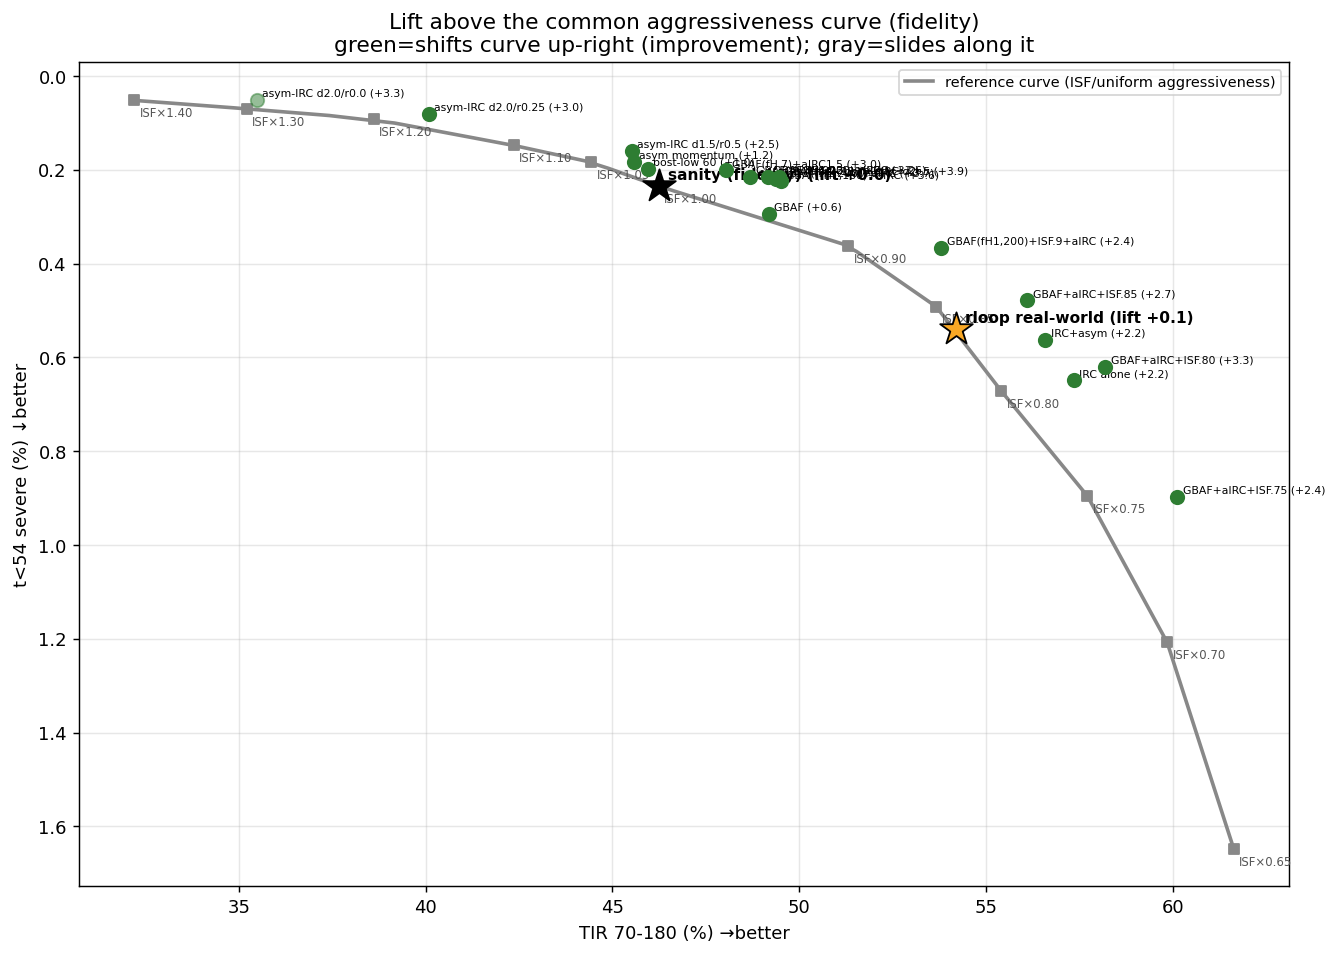
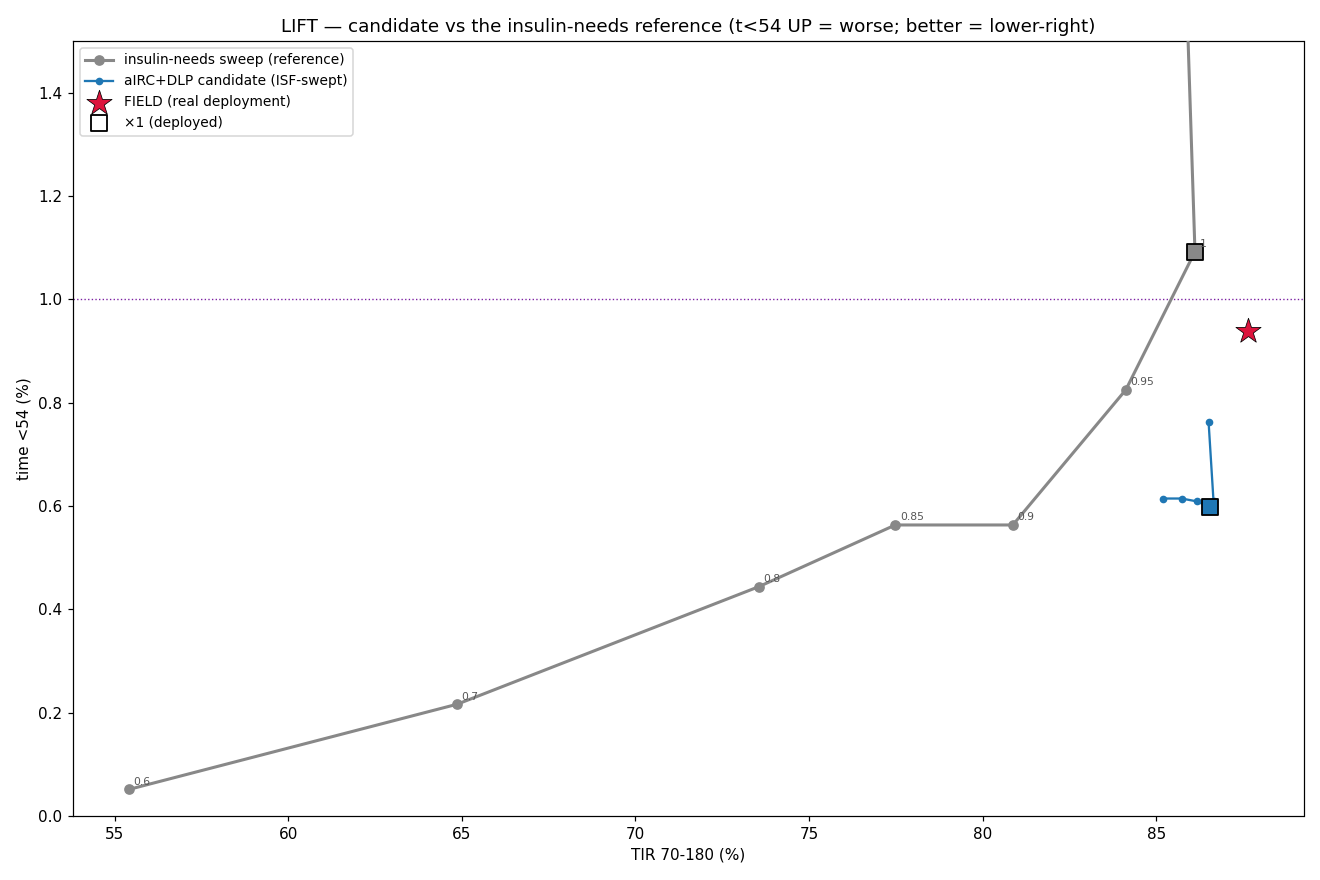
Simulator guide: update for insulin-needs lift, counter-reg fix, new levers
Reviewed against current code (last review was pre-session, 2026-06-11):
- §15 lift: reference is now the insulin-needs dial (not ISF-only, which
  overstates lift); lift is signed axis-normalized closest-distance to the
  sweep polyline (not vertical TIR-gap). Regenerated lift_analysis.png with the
  t<54-UP convention (better = lower-right) via frontier.plot_sweeps.
- §8 counter-reg: documents the difference-vs-real form and the counter<onset
  gate (876a08a) that fixed the high-running-candidate crash; corrected the
  now-addressed double-counting limitation.
- §12 levers: added --candidate-insulin-needs (the reference dial),
  --candidate-basal-rate-multiplier, and the recommendation manual-bolus mode
  (now default) + rec-scale.
- §18 params + footer: manual-bolus default, counter-reg difference/gate note,
  review date + changelog.

Claude-Session: https://claude.ai/code/session_01CkvtagxJNmFrbbHTgd9CDX

diff --git a/docs/simulator-guide/index.html b/docs/simulator-guide/index.html
@@ -189,8 +189,9 @@
 
 <!-- ============================================================ -->
 <h2 id="creg">8. Counter-regulation floor (a rescue-carb proxy)</h2>
-<p>When <code>counter_BG</code> falls below an onset threshold, a positive BG velocity is added that ramps with depth below onset, capped:</p>
-<div class="eq">if counter &lt; onset:  crVelocity = min( gain × (onset − counter), maxRate )</div>
+<p>When <code>counter_BG</code> falls below an onset threshold, a positive BG velocity is added that ramps with depth below onset, capped. It is applied <b>only when the counterfactual itself is below onset</b> and as a <b>difference from the real trace</b>:</p>
+<div class="eq">if counter &lt; onset:  crVelocity = defense(counter) − defense(real_BG)<br><span style="color:#8aa0b4">where  defense(bg) = min( gain × (onset − bg), maxRate )  for bg &lt; onset, else 0</span></div>
+<p>Two subtleties make this correct. <b>(a) Differenced against reality.</b> The real day's own rescue is already in the ICE (a treated low recovers in the real trace → positive ICE), so adding the absolute defense on top would double-count it and break identity; subtracting <code>defense(real_BG)</code> makes the term <b>0 at identity</b> (counter ≡ real) and gives only the <i>incremental</i> defense a deeper-than-real low deserves. <b>(b) Gated on the counterfactual being low.</b> The term fires only when <code>counter &lt; onset</code>. Without this gate a <i>high-running</i> counterfactual (a less-aggressive / lows-reducing candidate, correctly above a real low) would shed the full <code>defense(real_BG)</code> and get driven implausibly <i>below</i> the real substrate — a systematic downward bias against exactly the candidates we care about. <span class="small">(Gate added 2026-07-16, commit <code>876a08a</code>; the difference form was <code>4826d3c</code>.)</span></p>
 <p><b>The floor is OFF by default</b> (<code>--counter-reg-onset</code> defaults to <code>0</code>; the floor code only runs when onset&nbsp;&gt;&nbsp;0). When enabled, the CLI defaults are <code>gain 0.2 / max 6.0</code>. It exists because, before it, counterfactual lows could run away to physically-impossible values (e.g. −100 mg/dL), which made severe-low stats meaningless — so the canonical <i>whole-trace</i> outcome sims turn it on (onset ~54) to keep severe-low stats physical. But enabling it is an <b>evaluation choice, not a default</b>: some evaluations deliberately leave it off — the <a href="#episodic">episodic event eval (§15.1)</a> does, so candidate-induced deep lows are counted un-truncated. It is best understood as a crude proxy — and the name "counter-regulation" is a bit of a misnomer, for two reasons.</p>
 <div class="warn"><b>In T1D the defense is rescue carbs, not endogenous counter-regulation.</b> The glucagon response to hypoglycemia is characteristically lost in established T1D, and the epinephrine backup is blunted by recurrent lows (HAAF / impaired awareness). The one endogenous lever that does remain — less insulin → less suppression of hepatic glucose output — is <i>already</i> captured by the insulin model when a candidate suspends. What actually brings these lows back up is the person <b>eating</b>.</div>
 <p><b>And the real rescue is already in the model — as positive ICE.</b> A treated low recovers because carbs were consumed; that recovery is in the real BG trace, so it rides into every counterfactual as a positive ICE/NIE bump at that wall-clock time (and, with the fidelity <code>m</code>, cleanly so — descent attributed to insulin, recovery to carbs). So in the tracking regime the floor isn't doing the recovering; the ICE is.</p>
@@ -199,7 +200,7 @@
 <p>So what is the floor legitimately for? Only the <b>incremental</b> rescue at a <i>deeper-than-real</i> low. If a candidate doses more and drives the counter to 35 when the real day bottomed at 60, the real ICE supplies only the carbs eaten <i>for the 60</i> — it cannot supply the extra carbs the person would have taken at 35. The floor stands in for that. Two known limitations of the current form:</p>
 <ul>
 <li><b>Shape/timing is unphysical.</b> Rescue carbs act with a ~10–15 min lag and a gradual absorption curve (observed max recovery ~2.6–3.3 mg/dL/min); the floor is an <i>instantaneous</i> depth-ramp that at 40 mg/dL adds ~5.6 mg/dL/min. It therefore <b>over-recovers deep counterfactual lows → understates deep <code>t&lt;54</code> → makes dose-more candidates look safer than they are</b> (the §1 direction we most want to avoid).</li>
-<li><b>It can double-count in genuine real severe lows.</b> It fires whenever <code>counter &lt; 54</code> without reference to the real BG level, so when the counter is merely tracking a real sub-54 low it piles on top of the real rescue-carb ICE already there.</li>
+<li><b>Double-counting in genuine real severe lows is largely handled</b> by the difference form above (it references the real BG via <code>defense(real_BG)</code>, so a counter merely tracking a real sub-54 low adds ~0 incremental defense). What remains is the shape/timing mismatch and the residual approximation error of attributing exactly <code>defense(real_BG)</code> of the real trace's change to counter-reg.</li>
 </ul>
 <div class="note"><b>Mirror image of the rescue-carb confound.</b> The flip side is in the <i>prevention</i> regime: a candidate that prevents a low still inherits the rescue carbs the person really ate (fixed in the ICE) → a spurious rebound high. Both come from the same root — rescue carbs are baked into the ICE at a fixed time and amount, and the counterfactual can't re-derive them for a different trajectory. The faithful fix for both is a <b>BG-triggered rescue-carb model</b> (inject a realistic, lagged carb-appearance curve when the counter crosses a treat threshold, and remove the real rescue from the ICE so it isn't double-applied). That's a planned replacement for this floor; until then, read deep-<code>t&lt;54</code> deltas as mildly optimistic. <span class="small">(Characterization: <code>runs/2026-06-07-creg-recovery/</code>.)</span></div>
 
@@ -260,7 +261,10 @@ where <code>candPhys</code> and <code>realPhys</code> are the <i>physical</i> ac
 <p>A "candidate" is an <code>EvalConfig</code> + CLI flags expressing one change. The key levers:</p>
 <table>
 <tr><th>Lever</th><th>Flag</th><th>What it changes</th></tr>
-<tr><td>ISF multiplier</td><td><code>--candidate-sensitivity-multiplier</code></td><td>Flat scale on the controller's ISF (&lt;1 = more aggressive / dose more).</td></tr>
+<tr><td><b>Insulin-needs dial</b></td><td><code>--candidate-insulin-needs</code></td><td>Loop preset-style single aggressiveness knob <code>f</code>: basal ×f, ISF ÷f, CR ÷f together (f=0.5 → half basal, double ISF/CR = less insulin). <b>This is the reference-sweep axis for lift (§15)</b> — the realistic single dial, and a much stronger baseline than ISF alone.</td></tr>
+<tr><td>ISF multiplier</td><td><code>--candidate-sensitivity-multiplier</code></td><td>Flat scale on the controller's ISF (&lt;1 = more aggressive / dose more). A weaker aggressiveness axis than insulin-needs (corrections only).</td></tr>
+<tr><td>Basal-rate multiplier</td><td><code>--candidate-basal-rate-multiplier</code></td><td>Scale the scheduled basal profile. Changes the belief (delivered basal <i>and</i> the forecast's net-basal reference), not just the output — so it reaches fasting/non-meal lows that ISF corrections can't.</td></tr>
+<tr><td>Manual-bolus mode</td><td><code>--candidate-manual-bolus-from-recommendation</code> (<b>DEFAULT ON</b>) · <code>-rec-scale</code></td><td>Replace each real manual bolus with the candidate's <i>own</i> recommended bolus (self-consistent with candidate state; makes the aggressiveness sweep behave physically). <code>-rec-scale 0.5</code> delivers half of it (models meal under-bolusing). Pass <code>--no-…</code> for the old IOB-resize passthrough (more field-faithful for single-decision fidelity work).</td></tr>
 <tr><td>Application factor</td><td><code>--candidate-application-factor</code></td><td>Fraction of the computed correction delivered per cycle (Loop default 0.4).</td></tr>
 <tr><td>GBAF</td><td><code>--candidate-gbaf</code> (+ anchors/factors)</td><td>Glucose-based application factor: ramps the app-factor up with BG — aggressive only when high (fidelity-stable on lows).</td></tr>
 <tr><td>Integral RC</td><td><code>--candidate-integral-rc</code></td><td>Integral retrospective correction (a PID-like term on accumulated forecast error).</td></tr>
@@ -295,9 +299,10 @@ where <code>candPhys</code> and <code>realPhys</code> are the <i>physical</i> ac
 
 <!-- ============================================================ -->
 <h2 id="analysis">15. The analysis layer — what you do with the sim</h2>
-<p>A single (TIR, t&lt;54) point is ambiguous, because most single levers (ISF, app-factor) just slide along one common "aggressiveness" curve. The <b>lift</b> framework fits a reference curve from a dense ISF sweep, then scores each candidate by its <b>vertical distance above that curve</b> at matched lows. Lift ≈ 0 = a slider; lift &gt; 0 = a genuine structural improvement (it shifts the curve up-and-right).</p>
+<p>A single (TIR, t&lt;54) point is ambiguous, because most single levers just slide along one common "aggressiveness" curve. The <b>lift</b> framework fits a reference curve from a dense sweep of that aggressiveness dial, then scores each candidate by its <b>signed, axis-normalized closest distance to the reference polyline</b> — <b>+</b> when it sits below-and-to-the-right (more TIR / less t&lt;54 than the dial reaches), <b>−</b> when above-left. Lift ≈ 0 = a slider; lift &gt; 0 = a genuine structural improvement. (This replaced an older "vertical TIR gap at matched t&lt;54", which blew up wherever the reference curve runs flat.) Rank a mechanism by the <b>mean lift over its own sweep</b> (<code>frontier.summarize_mechanisms</code>), not a single point; plot with <code>frontier.plot_sweeps</code>.</p>
+<div class="warn"><b>Sweep the insulin-needs dial, not ISF alone.</b> The reference dial should be <code>--candidate-insulin-needs f</code> (a Loop preset-style single knob: basal ×f, ISF ÷f, CR ÷f together), not <code>--candidate-sensitivity-multiplier</code>. An ISF-only sweep only touches correction dosing, so it floors high on t&lt;54 (can't cut basal/meal lows) and thereby <b>overstates candidate lift</b> — much of what looks like lift against an ISF baseline is really just "this candidate delivers less insulin," which the insulin-needs dial does trivially. Measuring a "halve the meal boluses" lever against ISF-only showed +0.185 apparent lift that <b>evaporated to +0.036</b> against insulin-needs.</div>
 <div class="fig"><img src="lift_analysis.png" alt="lift analysis">
-<div class="cap">Lift analysis (one real user). The grey curve is the ISF/uniform-aggressiveness reference; green points shift it up-and-right (real improvements — asymmetric-IRC and GBAF+asym-IRC families); grey points sit on it (pure aggressiveness). The real-world star and sanity star are overlaid with their lift.</div></div>
+<div class="cap">Lift analysis (real user, fixed sim). Convention: x = TIR (right = better), <b>y = t&lt;54 increasing upward (up = worse)</b>, dotted 1% budget line, <b>better = lower-right</b>. The grey curve is the insulin-needs reference; each candidate is swept over its ISF multiplier as a line — where it sits <i>below-right</i> of the grey curve it has positive lift. Here aIRC+DLP clears the baseline through the operating band. The red star is the real deployment; squares mark the ×1.0 (deployed) point of each sweep.</div></div>
 <p>Beyond the reactive frontier, a <b>perfect-foresight oracle</b> (offline optimal dosing given the known future ICE) bounds the best case: with perfect carb + sensitivity foresight, ~95% TIR at ~0 severe lows is achievable — and the gap to the best causal algorithm is almost entirely a <i>forecasting</i> problem (carbs/sensitivity ~85 min ahead), not a dosing-logic one. A <b>regret</b> analysis (best-causal vs oracle, on the same substrate) localizes that gap by regime.</p>
 
 <h3 id="episodic">15.1 Episodic (event-windowed) evaluation</h3>
@@ -340,7 +345,8 @@ where <code>candPhys</code> and <code>realPhys</code> are the <i>physical</i> ac
 <tr><td>burn-in</td><td>6 h</td><td>Real-pump warm-up before CF divergence</td></tr>
 <tr><td>insulin model</td><td>RAPID_ACTING_ADULT</td><td>DIA 6 h, peak 75 min, 10 min delay</td></tr>
 <tr><td>kalman smoothing</td><td>ON</td><td>RTS-smoothed substrate (<code>--no-kalman</code> = raw)</td></tr>
-<tr><td>counter-reg</td><td><b>off by default</b> (onset 0); when on, gain 0.2 / max 6.0</td><td>Glucose-defense velocity floor (§8). Whole-trace outcome runs enable it; the episodic eval (§15.1) leaves it off.</td></tr>
+<tr><td>counter-reg</td><td><b>off by default</b> (onset 0); when on, gain 0.2 / max 6.0</td><td>Glucose-defense velocity, <b>differenced vs real &amp; gated on counter&lt;onset</b> (§8). Whole-trace outcome runs enable it; the episodic eval (§15.1) leaves it off.</td></tr>
+<tr><td>manual-bolus mode</td><td><b>recommendation (ON)</b></td><td>Candidate replaces real manual boluses with its own recommendation (§12); <code>--no-candidate-manual-bolus-from-recommendation</code> = IOB-resize passthrough (more field-faithful)</td></tr>
 <tr><td>sensitivity infer</td><td>window 30 min · m_max 2.0 · raw (no smoothing)</td><td>Fidelity model (§9), off by default; raw per-step <code>m</code> is the field-validated default</td></tr>
 <tr><td>sensor cap</td><td>400 mg/dL</td><td>Ceiling on BG the controller sees (§4); <code>--sensor-cap-mgdl</code></td></tr>
 <tr><td>dosing engine</td><td>Loop</td><td>Pluggable; <code>--candidate-openaps</code> swaps in oref/OpenAPS (§1, §12)</td></tr>
@@ -348,7 +354,7 @@ where <code>candPhys</code> and <code>realPhys</code> are the <i>physical</i> ac
 <tr><td>scoring exclusion</td><td>post_hours 0</td><td>Disruption interval only, not recovery (§11)</td></tr>
 </table>
 
-<p class="small" style="margin-top:40px;border-top:1px solid var(--line);padding-top:14px;">LoopEval closed-loop simulator — technical guide. <b>Living document</b>, last reviewed 2026-06-11 (RTS substrate, physiological CF, counter-reg floor <i>off-by-default</i>, EGP-separated sensitivity-inference fidelity with field-validated raw <code>m</code>, pluggable Loop/OpenAPS dosing engines, sensor cap, interval-only disruption exclusion, uncertainty-cap lever, episodic event-windowed evaluation). Graphs generated from real user data; regenerate with <code>make_guide_assets.py</code>. Lives in the LoopEval repo (<code>docs/simulator-guide/</code>) so it versions with the evaluator.</p>
+<p class="small" style="margin-top:40px;border-top:1px solid var(--line);padding-top:14px;">LoopEval closed-loop simulator — technical guide. <b>Living document</b>, last reviewed 2026-07-16 (added: insulin-needs reference dial + closest-distance lift metric with insulin-needs baseline §15; counter-reg now differenced-vs-real &amp; gated on counter&lt;onset, fixing a high-running-candidate crash §8; recommendation manual-bolus mode now the default + rec-scale + basal-rate levers §12; earlier: RTS substrate, physiological CF, EGP-separated fidelity with field-validated raw <code>m</code>, pluggable Loop/OpenAPS engines, sensor cap, interval-only disruption exclusion, uncertainty-cap lever, episodic event-windowed evaluation). Graphs generated from real user data; regenerate with <code>make_guide_assets.py</code>. Lives in the LoopEval repo (<code>docs/simulator-guide/</code>) so it versions with the evaluator.</p>
 
 </div>
 </body>
